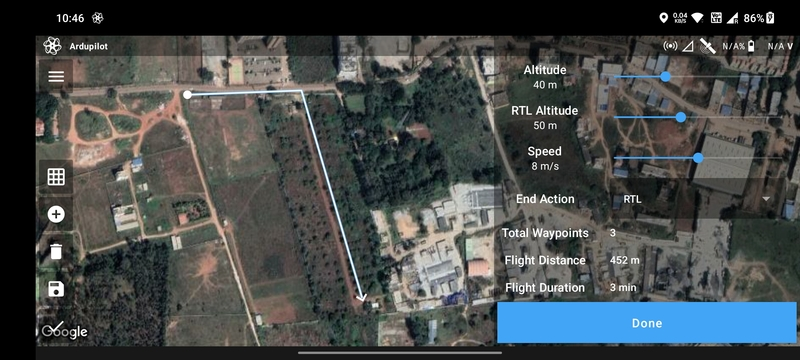
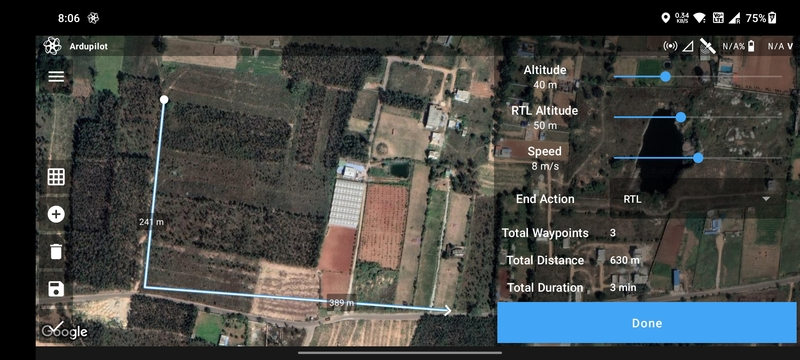
Update recon line

diff --git a/docs/launchpad/mission-planning/recon-line.md b/docs/launchpad/mission-planning/recon-line.md
@@ -50,8 +50,9 @@ The following parameters are available for a `Recon Line` mission:
 Based on the parameters selected, the following values are calculated and displayed:
 
 - `Total Waypoints`
-- `Flight Distance`
-- `Flight Duration`
+- `Total Distance`
+- `Total Duration`
+- `Max Distance`
 
 ![Parameters and Data](./img/recon-line-params.jpg)
 
